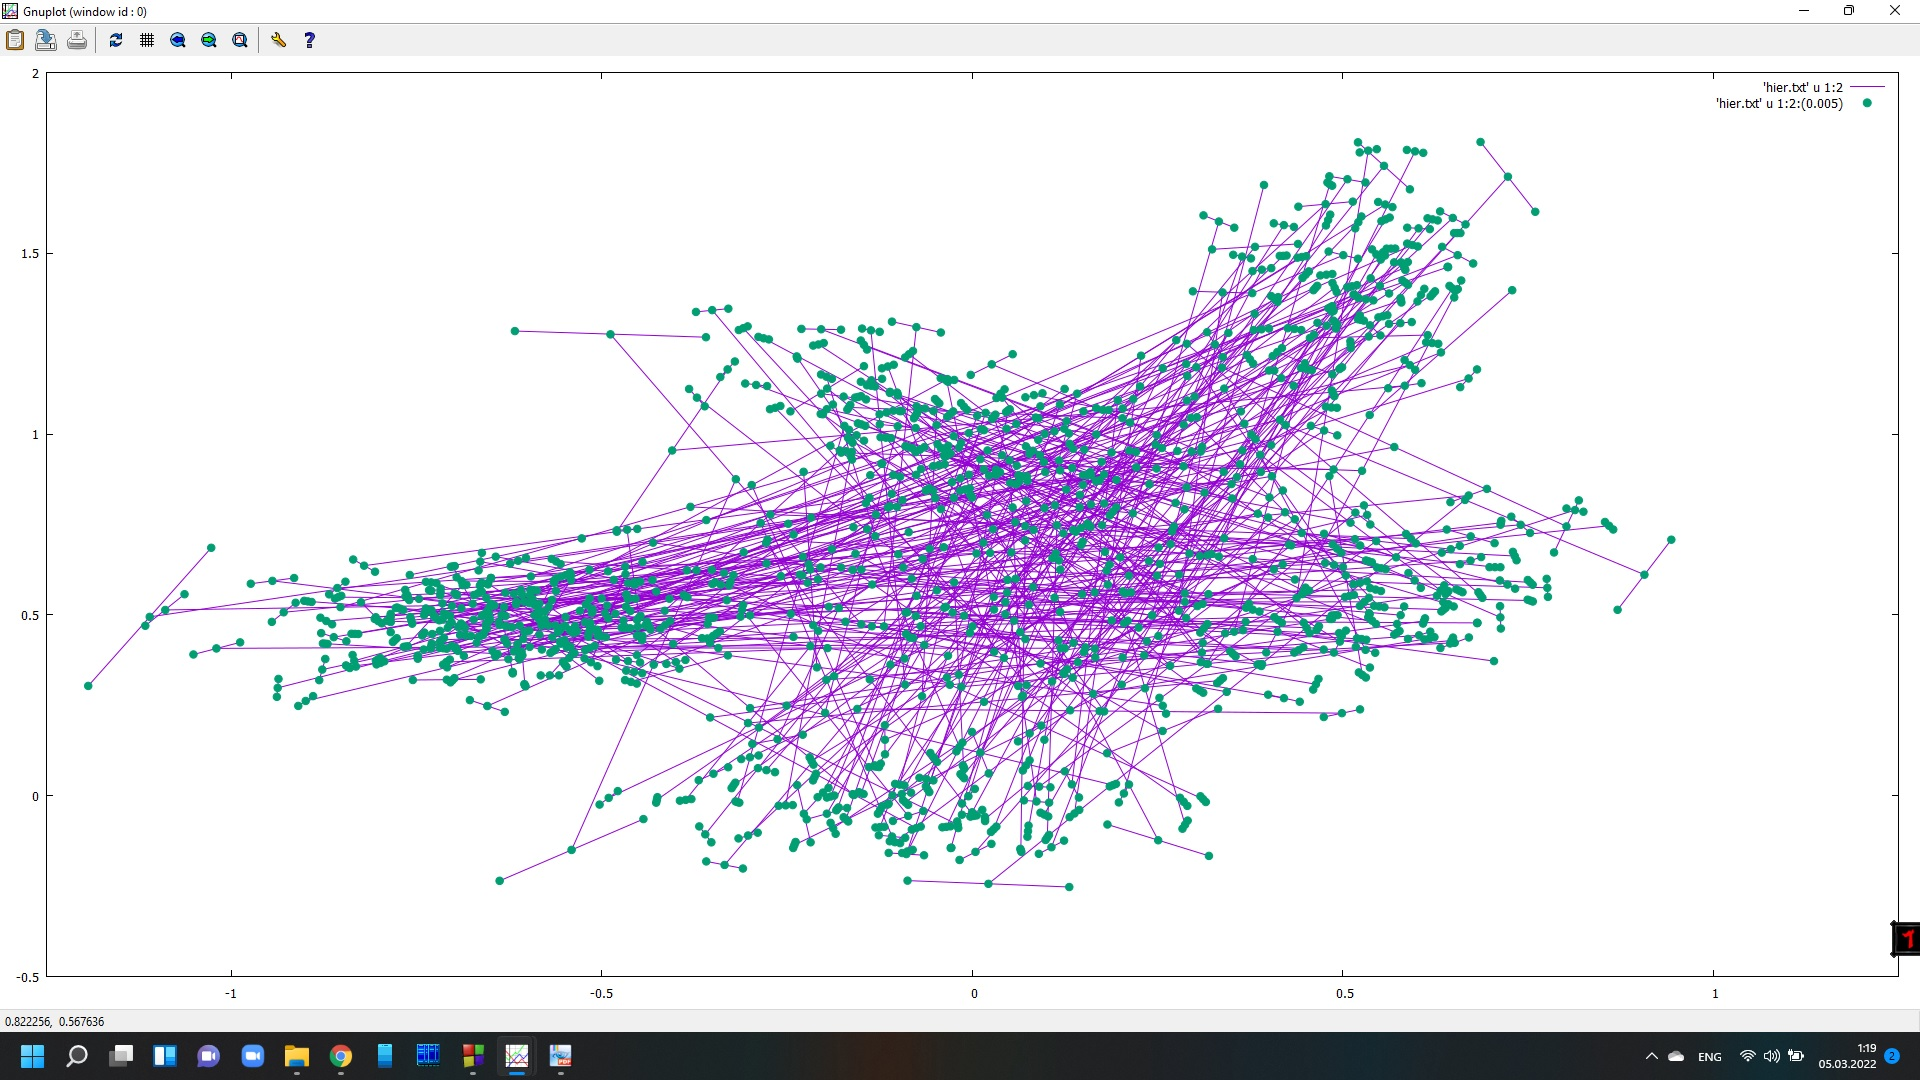
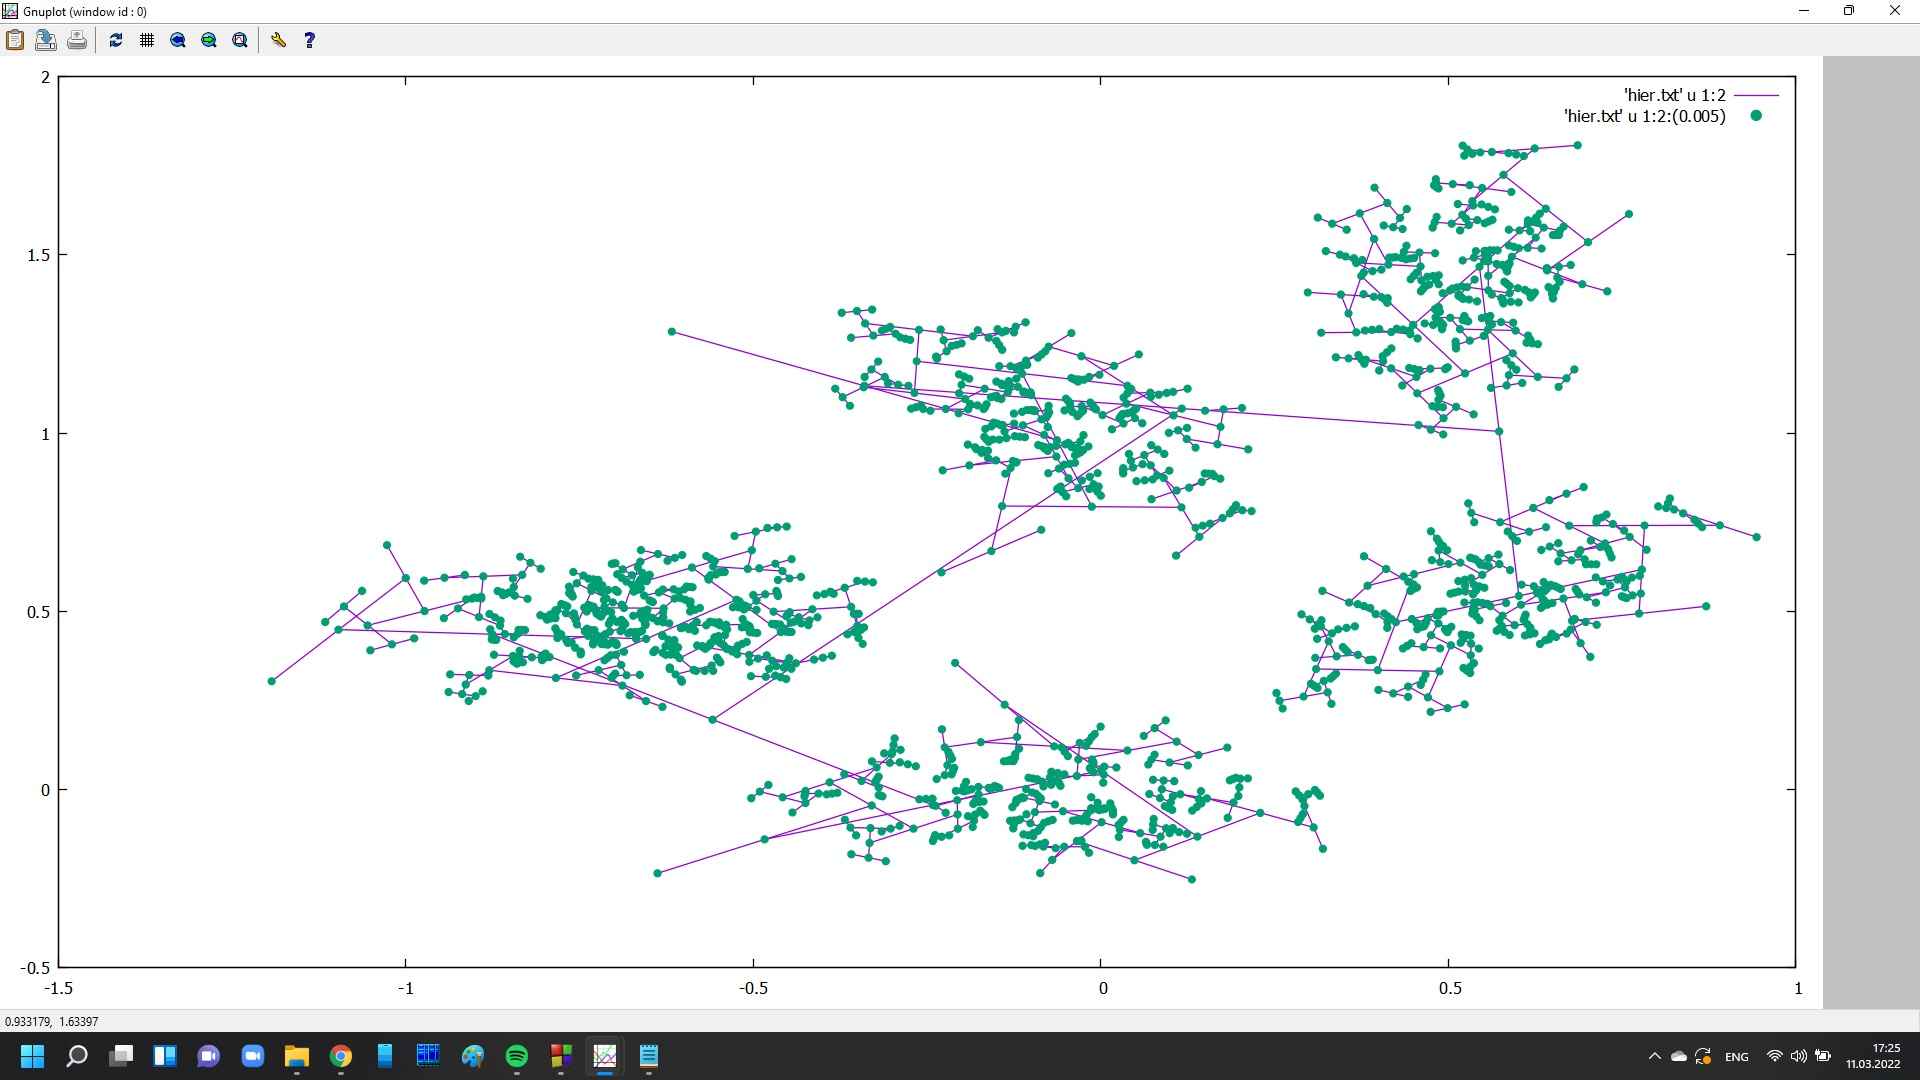
new fail

diff --git a/func.cpp b/func.cpp
@@ -926,15 +926,15 @@ int Hierarchical::copy_matr(){
     int i,j;
     m_Matrix.setN(m_Field->getN());
     m_Matrix.Mat.clear();
-    for(i=0;i<m_Field->getN();i++)
+    for(i=0;i<2*(m_Field->getN());i++)
     {
         m_Matrix.Mat.push_back(arr());
     }
-    for(i=0;i<m_Field->getN();i++)
+    for(i=0;i<2*(m_Field->getN());i++)
     {
-        for(j=0;j<m_Field->getN();j++)
+        for(j=0;j<2*(m_Field->getN());j++)
         {
-            m_Matrix.Mat[i].m.push_back(0);
+            m_Matrix.Mat[i].m.push_back(0.0);
         }
     }
     for(i=0;i<m_Field->getN();i++)
@@ -956,7 +956,7 @@ int Hierarchical::Start_alg(int k){
         for(i=0;i<m_Field->getN()+numk;i++){
             for(j=i+1;j<m_Field->getN()+numk;j++)
             {
-                if ((m_Matrix.Mat[i].m[j]<dist)&&(m_Matrix.Mat[i].m[i]>-1.0)&&(m_Matrix.Mat[j].m[j]>-1.0)){
+                if ((m_Matrix.Mat[i].m[j]<dist)&&(m_Matrix.Mat[i].m[i]>-1.0)&&(m_Matrix.Mat[j].m[j]>-1.0)&&(i!=j)){
                     dist=m_Matrix.Mat[i].m[j];
                     mini=i;
                     minj=j;
@@ -1014,15 +1014,6 @@ int Hierarchical::Start_alg(int k){
         m_Matrix.Mat[mini].m[mini]=-1;
         m_Matrix.Mat[minj].m[minj]=-1;
         //log1<<numk<<std::endl;
-        m_Matrix.Mat.push_back(arr());
-        for(j=0;j<m_Field->getN()-1+numk;j++)
-        {
-            m_Matrix.Mat[j].m.push_back(0);
-        }
-        for(j=0;j<m_Field->getN()-1+numk;j++)
-        {
-            m_Matrix.Mat[m_Field->getN()-1+numk].m.push_back(0);
-        }
         for(j=0;j<m_Field->getN()+numk;j++)
         {
             float rast=poisk_rast(k,j,m_Field->getN()+numk-1);
@@ -1063,8 +1054,8 @@ float Hierarchical::poisk_rast(int k, int n, int m){
         if(m_Matrix.Mat[n].m[m]<eps){
             if(n>=m_Field->getN()){
                 float rast1,rast2;
-                rast1=poisk_rast(1,number[(n-m_Field->getN())*3+1],m);
-                rast2=poisk_rast(1,number[(n-m_Field->getN())*3+2],m);
+                rast1=poisk_rast(2,number[(n-m_Field->getN())*3+1],m);
+                rast2=poisk_rast(2,number[(n-m_Field->getN())*3+2],m);
                 if(rast1>rast2){
                     return rast1;
                 }
@@ -1072,8 +1063,8 @@ float Hierarchical::poisk_rast(int k, int n, int m){
             }
             if(m>=m_Field->getN()){
                 float rast1,rast2;
-                rast1=poisk_rast(1,number[(m-m_Field->getN())*3+1],n);
-                rast2=poisk_rast(1,number[(m-m_Field->getN())*3+2],n);
+                rast1=poisk_rast(2,number[(m-m_Field->getN())*3+1],n);
+                rast2=poisk_rast(2,number[(m-m_Field->getN())*3+2],n);
                 if(rast1>rast2){
                     return rast1;
                 }
@@ -1087,14 +1078,14 @@ float Hierarchical::poisk_rast(int k, int n, int m){
         if(m_Matrix.Mat[n].m[m]<eps){
             if(n>=m_Field->getN()){
                 float rast1,rast2;
-                rast1=poisk_rast(1,number[(n-m_Field->getN())*3+1],m);
-                rast2=poisk_rast(1,number[(n-m_Field->getN())*3+2],m);
+                rast1=poisk_rast(3,number[(n-m_Field->getN())*3+1],m);
+                rast2=poisk_rast(3,number[(n-m_Field->getN())*3+2],m);
                 return((rast1+rast2)/2);
             }
             if(m>=m_Field->getN()){
                 float rast1,rast2;
-                rast1=poisk_rast(1,number[(m-m_Field->getN())*3+1],n);
-                rast2=poisk_rast(1,number[(m-m_Field->getN())*3+2],n);
+                rast1=poisk_rast(3,number[(m-m_Field->getN())*3+1],n);
+                rast2=poisk_rast(3,number[(m-m_Field->getN())*3+2],n);
                 return((rast1+rast2)/2);
             }
         }

diff --git a/funccl.cpp b/funccl.cpp
@@ -312,9 +312,9 @@ int Field::savematrix_dist(){ //sozdaet matrix rastoyaniy
         }
     }
     if(LogOn==true){
-        for(i=0;i<100;i++)
+        for(i=0;i<20;i++)
         {
-            for(j=0;j<100;j++)
+            for(j=0;j<20;j++)
             {
                 if(m_Matrix_dist.Mat_dist[i*N_points+j]<0.00001){
                     log1.width(8);
